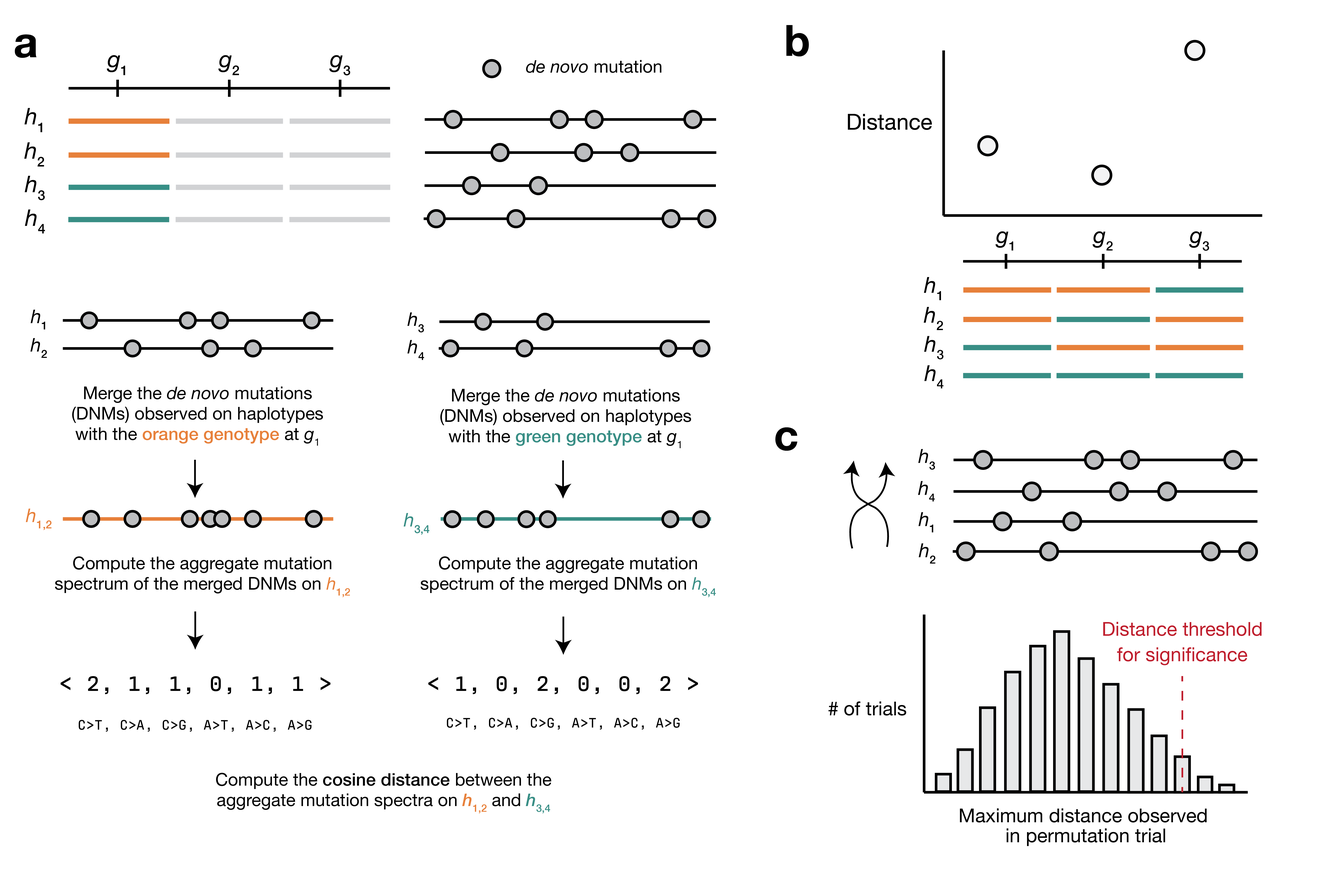
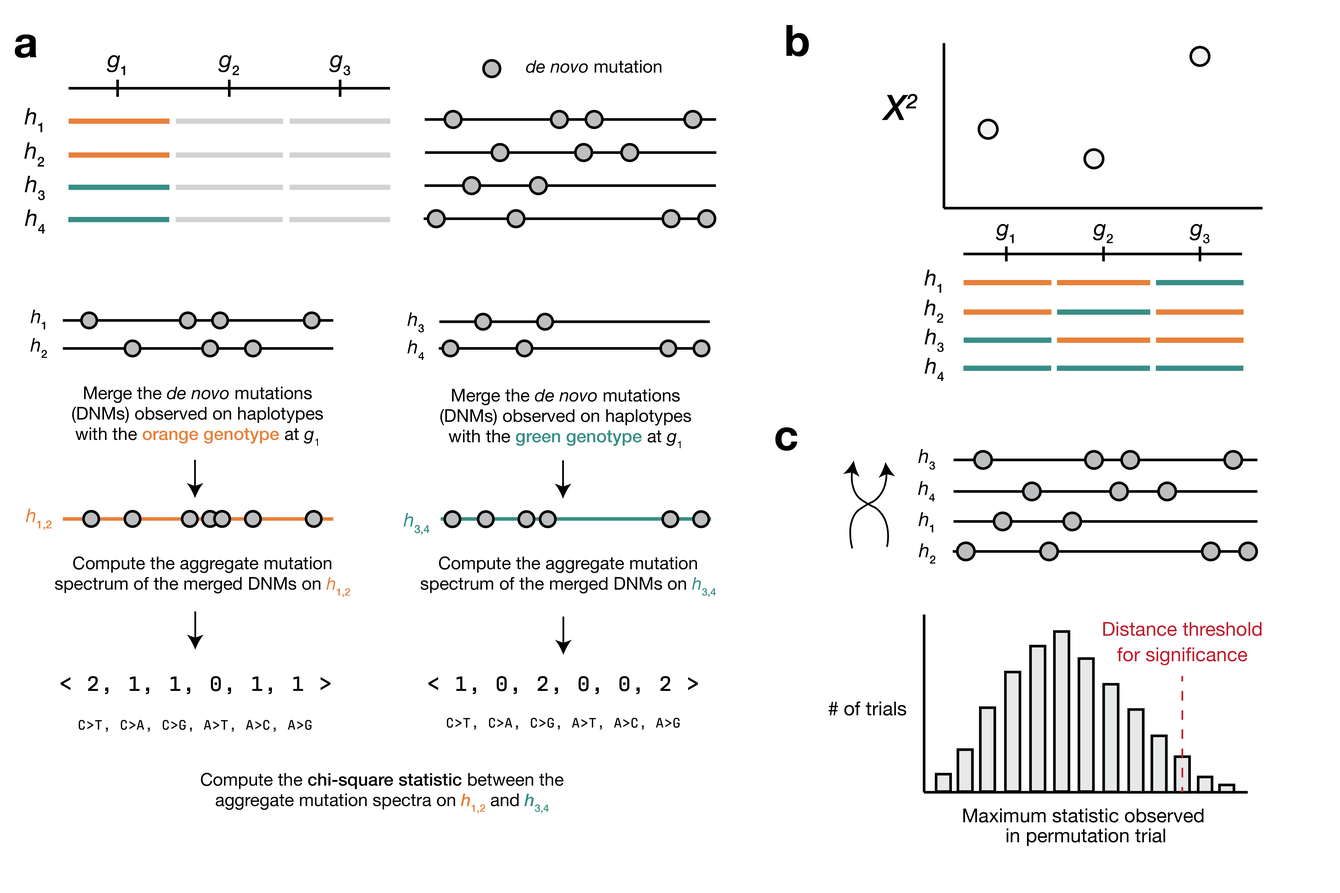
Update figures, reorganize sections, add supplement stub.

diff --git a/content/05.methods.md b/content/05.methods.md
@@ -22,27 +22,23 @@ Briefly, we identified private single-nucleotide mutations in each BXD that were
 
 Using the existing catalog of *de novo* germline mutations in the BXDs, we developed a new approach to discover loci that affect the germline *de novo* mutation spectrum in biparental RILs (Figure @fig:toy-diagram).
 
-![**Overview of inter-haplotype distance method for discovering mutator alleles.** **a)** A population of four haplotypes has been genotyped at three informative markers; each haplotype also harbors private *de novo* germline mutations. At each informative marker, we compute an aggregate *de novo* germline mutation spectrum in the haplotypes that carry either parental allele, and calculate the cosine distance between the two aggregate spectra. **b)** We repeat the process outlined in a) for every informative marker along the genome. **c)** To assess the significance of any cosine distance peaks in b), we perform a permutation test by shuffling the labels associated with each haplotype's mutation data and running a genome-wide distance scan. In each of $N$ permutations, we record the maximum distance encountered at any locus in the distance scan. Finally, we calculate the $1 - p$ percentile of that maximum distance distribution to obtain a genome-wide cosine distance threshold at the specified value of $p$.](images/Figure%201.png){#fig:toy-diagram width=7in} 
+![**Overview of inter-haplotype distance method for discovering mutator alleles.** **a)** A population of four haplotypes has been genotyped at three informative markers; each haplotype also harbors private *de novo* germline mutations. At each informative marker, we compute an aggregate *de novo* germline mutation spectrum in the haplotypes that carry either parental allele, and calculate the $\chi^{2}$ statistic between the two aggregate spectra. **b)** We repeat the process outlined in a) for every informative marker along the genome. **c)** To assess the significance of any $\chi^{2}$ statistic peaks in b), we perform a permutation test by shuffling the labels associated with each haplotype's mutation data and running a genome-wide distance scan. In each of $N$ permutations, we record the maximum distance encountered at any locus in the distance scan. Finally, we calculate the $1 - p$ percentile of that maximum distance distribution to obtain a genome-wide $\chi^{2}$ statistic threshold at the specified value of $p$.](images/Figure%201.png){#fig:toy-diagram width=7in} 
 
 We assume that a collection of haplotypes has been genotyped at informative markers, and that *de novo* germline mutations have been identified on each haplotype.
 
 At each informative marker, we divide haplotypes into two groups based on the parental allele that they inherited. We then compute a $k$-mer mutation spectrum using the aggregate mutation counts in each haplotype group. The $k$-mer mutation spectrum contains the frequency of every possible $k$-mer mutation type in a collection of mutations, and can be represented as a vector of size $6 \times 4^{k - 1}$ after collapsing by strand complement. For example, the $1$-mer mutation spectrum is 6-element vector that contains the frequencies of C>T, C>G, C>A, A>G, A>T, and A>C mutations.
 
-At each marker, we then calculate the cosine distance between the aggregate mutation spectra of haplotypes with either parental allele. The cosine distance between two vectors $\mathbf{A}$ and $\mathbf{B}$ is defined as 
+At each marker, we then calculate the $\chi^{2}$ statistic between the aggregate mutation spectra of haplotypes with either parental allele. Larger values of the $\chi^{2}$ statistic suggests more dissimilarity between the two aggregate mutation spectra.
 
-$$D_C = 1 - \frac{\mathbf{A} \cdot \mathbf{B}}{||\mathbf{A}|| \ ||\mathbf{B}||}$$
-
-where $||\mathbf{A}||$ and $||\mathbf{B}||$ are the $L^2$ (or Euclidean) norms of $\mathbf{A}$ and $\mathbf{B}$, respectively. The cosine distance metric has a number of favorable properties for comparing mutation spectra. Since cosine distance does not take the magnitude of vectors into account, it can be used to compare two spectra with unequal total mutation counts (even if those total counts are relatively small). Additionally, by calculating the cosine distance between mutation *spectra*, we avoid the need to perform separate comparisons of mutation counts at each individual $k$-mer mutation type. 
-
-Inspired by methods from QTL mapping [@PMID:7851788], we use permutation tests to establish genome-wide cosine distance thresholds. In each of $N$ permutation trials, we randomly shuffle the per-haplotype mutation data such that haplotype labels no longer correspond to the correct mutation counts. Using the shuffled mutation data, we perform a genome-wide distance scan as described above, and record the maximum distance observed at any locus. After $N$ permutations (usually 10,000), we compute the $1 - p$ percentile of the maximum distance distribution, and use that percentile value as a genome-wide significance threshold (for example, at $p = 0.05$).
+Inspired by methods from QTL mapping [@PMID:7851788], we use permutation tests to establish genome-wide $\chi^{2}$ statistic thresholds. In each of $N$ permutation trials, we randomly shuffle the per-haplotype mutation data such that haplotype labels no longer correspond to the correct mutation counts. Using the shuffled mutation data, we perform a genome-wide distance scan as described above, and record the maximum distance observed at any locus. After $N$ permutations (usually 10,000), we compute the $1 - p$ percentile of the maximum distance distribution, and use that percentile value as a genome-wide significance threshold (for example, at $p = 0.05$).
 
 #### Accounting for relatedness between strains 
 
 We expect each BXD RIL to derive approximately 50% of its genome from C57BL/6J and 50% from DBA/2J. As a result, every pair of RILs will likely be identical-by-descent (IBD) at a fraction of genotyped markers. Pairs of more genetically similar BXDs may also have more similar mutation spectra, potentially due to shared polygenic effects on the mutation process. Therefore, at a given marker, if the BXD RILs that inherited *D* haplotypes are genetically dissimilar from the RILs that inherited *B* haplotypes (considering all loci throughout the genome), we might expect the aggregate mutation spectra in the two groups to also be dissimilar. 
 
-We therefore implemented a simple approach to account for these potential issues of relatedness. At each marker $i$, we divide BXD haplotypes into two groups based on the parental allele they inherited. As before, we first compute the aggregate mutation spectrum in each group of haplotypes and calculate the cosine distance between the two aggregate spectra ($D^{C}_{i}$). Then, within each group of haplotypes, we calculate the allele frequency of the *D* allele at every marker along the genome to obtain a vector of length $n$, where $n$ is the number of genotyped markers. To quantify the genetic similarity between the two groups of haplotypes, we calculate the Pearson correlation coefficient $r_i$ between the two vectors of marker-wide *D* allele frequencies. 
+We therefore implemented a simple approach to account for these potential issues of relatedness. At each marker $i$, we divide BXD haplotypes into two groups based on the parental allele they inherited. As before, we first compute the aggregate mutation spectrum in each group of haplotypes and calculate the $\chi^{2}$ statistic between the two aggregate spectra ($\chi^{2}_{i}$). Then, within each group of haplotypes, we calculate the allele frequency of the *D* allele at every marker along the genome to obtain a vector of length $n$, where $n$ is the number of genotyped markers. To quantify the genetic similarity between the two groups of haplotypes, we calculate the Pearson correlation coefficient $r_i$ between the two vectors of marker-wide *D* allele frequencies. 
 
-Thus, at every marker $i$ along the genome, we divide BXD haplotypes into two groups and compute two metrics: $D^{C}_{i}$ (the cosine distance between the aggregate spectra of each group) and $r_i$ (the correlation between genome-wide *D* allele frequencies in each group). To control for the potential effects of genetic similarity on cosine distances, we regress $\left(D^{C}_{1}, D^{C}_{2}, \ldots D^{C}_{n} \right)$ against $\left( r_1, r_2, \ldots r_n \right)$ for all $n$ markers and fit an ordinary least-squares regression model. We then use the residuals from the fitted model as the "adjusted" cosine distance values for each marker. If genome-wide genetic similarity between haplotypes perfectly predicts cosine distances at each marker, these residuals will all be 0 (or very close to 0). If genome-wide genetic similarity has no predictive power, the residuals will simply represent the difference between an observed cosine distance and the marker-wide mean of cosine distances.
+Thus, at every marker $i$ along the genome, we divide BXD haplotypes into two groups and compute two metrics: $\chi^{2}_{i}$ (the $\chi^2$ statistic between the two groups' aggregate spectra) and $r_i$ (the correlation between genome-wide *D* allele frequencies in the two groups). To control for the potential effects of genetic similarity on $\chi^{2}$ statistics, we regress $\left(\chi^2_{1}, \chi^2_{2}, \ldots \chi^2_{n} \right)$ on $\left( r_1, r_2, \ldots r_n \right)$ for all $n$ markers and fit an ordinary least-squares regression model. We then use the residuals from the fitted model as the "adjusted" $\chi^{2}$ statistic values for each marker. If genome-wide genetic similarity between haplotypes perfectly predicts $\chi^{2}$ statistics at each marker, these residuals will all be 0 (or very close to 0). If genome-wide genetic similarity has no predictive power, the residuals will simply represent the difference between an observed $\chi^{2}$ statistic and the marker-wide mean of $\chi^{2}$ statistics.
 
 #### Implementation and source code
 
@@ -78,7 +74,7 @@ $$C^{\prime}_{i, j} = \mathrm {Pois}(\lambda^{\prime}_{j})$$
 
 When $k = 1$, we only augment the effect size of one mutation type at a time, but when $k = 3$, we augment a fraction (25%, 50%, or 100%) of the $3$-mer mutation types associated with a single "central" mutation type. 
 
-After generating mutator and wild-type haplotypes, we compute the aggregate mutation spectrum in either group by summing the columns of $C$ and $C^{\prime}$. We then calculate the cosine distance between the two aggregate spectra, which we call the "focal" distance $D_f$. To determine whether $D_f$ is greater than what we'd expect by chance, we perform a permutation test.
+After generating mutator and wild-type haplotypes, we compute the aggregate mutation spectrum in either group by summing the columns of $C$ and $C^{\prime}$. We then calculate the $\chi^{2}$ statistic between the two aggregate spectra, which we call the "focal" distance $D_f$. To determine whether $D_f$ is greater than what we'd expect by chance, we perform a permutation test.
 
 First, we concatenate the matrices of wild-type and mutator haplotype spectra:
 
@@ -87,7 +83,7 @@ C \\
 C^{\prime}
 \end{bmatrix}$$
 
-Then, in each of $N = 1,000$ trials, we randomly permute the rows of $A$. In every permutation, we consider the row indices from $\left[0, \frac{h}{2} \right)$ to correspond to the wild-type haplotypes, and the row indices from $\left[ \frac{h}{2}, h \right)$ to correspond to the mutator haplotypes. We then compute the cosine distance between the aggregate spectra of the wild-type and mutator haplotypes. If fewer than 5% of the $N$ permutations produces a cosine distance greater than or equal to $D_f$, we say that the approach successfully identified the mutator allele. For every combination of simulation parameters ($h$, $m$, $e$, and so on) we perform 100 trials and record the number of trials in which we successfully identify the mutator allele. 
+Then, in each of $N = 1,000$ trials, we randomly permute the rows of $A$. In every permutation, we consider the row indices from $\left[0, \frac{h}{2} \right)$ to correspond to the wild-type haplotypes, and the row indices from $\left[ \frac{h}{2}, h \right)$ to correspond to the mutator haplotypes. We then compute the $\chi^{2}$ statistic between the aggregate spectra of the wild-type and mutator haplotypes. If fewer than 5% of the $N$ permutations produces a $\chi^{2}$ statistic greater than or equal to $D_f$, we say that the approach successfully identified the mutator allele. For every combination of simulation parameters ($h$, $m$, $e$, and so on) we perform 100 trials and record the number of trials in which we successfully identify the mutator allele. 
 
 ### Applying the inter-haplotype distance method to the BXDs
 
@@ -99,7 +95,7 @@ We used Snakemake [@PMID:34035898] to write a reproducible workflow for running 
 
 ### Identifying candidate mutator alleles overlapping the chromosome 6 peak
 
-We investigated the region implicated by our inter-haplotype distance approach on chromosome 6 by subsetting the joint-genotyped BXD VCF file (European Nucleotide Archive accession **PRJEB45429** [@url:https://www.ebi.ac.uk/ena/browser/view/PRJEB45429]) using `bcftools` [@PMID:33590861]. We defined the candidate interval surrounding the cosine distance peak on chromosome 6 as +/- 5 Mbp from the genotype marker with the largest cosine distance value (`rs31001331`). To predict the functional impacts of both single-nucleotide variants and indels on splicing, protein structure, etc., we annotated variants in the BXD VCF using the following `snpEff` [@PMID:22728672] command: 
+We investigated the region implicated by our inter-haplotype distance approach on chromosome 6 by subsetting the joint-genotyped BXD VCF file (European Nucleotide Archive accession **PRJEB45429** [@url:https://www.ebi.ac.uk/ena/browser/view/PRJEB45429]) using `bcftools` [@PMID:33590861]. We defined the candidate interval surrounding the $\chi^{2}$ statistic peak on chromosome 6 as +/- 5 Mbp from the genotype marker with the largest $\chi^{2}$ statistic value (`rs31001331`). To predict the functional impacts of both single-nucleotide variants and indels on splicing, protein structure, etc., we annotated variants in the BXD VCF using the following `snpEff` [@PMID:22728672] command: 
 
 ```
  java -Xmx16g -jar /path/to/snpeff/jarfile GRCm38.75 /path/to/bxd/vcf > /path/to/uncompressed/output/vcf
@@ -113,7 +109,7 @@ We downloaded mutation data from a previously published analysis [@PMID:30753674
 
 ### Querying GeneNetwork for evidence of eQTLs at the mutator locus
 
-We used the online GeneNetwork resource [@PMID:27933521], which contains array- and RNA-seq-derived expression measurements in a wide variety of tissues from numerous datasets, to find *cis*-eQTLs for the DNA repair genes we implicated under the cosine distance peak on chromosome 6. On the GeneNetwork homepage (genenetwork.org), we selected the "BXD Family" **Group** and used the **Type** dropdown menu to select each of the specific expression datasets described in Table @tbl:eqtl-provenance. In the **Get Any** text box, we then entered the gene name (*Ogg1*) and clicked **Search**. After selecting the appropriate trait ID on the next page, we used the **Mapping Tools** dropdown to run Haley-Knott regression [@PMID:16718932] with the following parameters: WGS-based marker genotypes, 1,000 permutations for LOD threshold calculations, and controlling for BXD genotypes at the `rs32497085` marker.
+We used the online GeneNetwork resource [@PMID:27933521], which contains array- and RNA-seq-derived expression measurements in a wide variety of tissues from numerous datasets, to find *cis*-eQTLs for the DNA repair genes we implicated under the $\chi^{2}$ statistic peak on chromosome 6. On the GeneNetwork homepage (genenetwork.org), we selected the "BXD Family" **Group** and used the **Type** dropdown menu to select each of the specific expression datasets described in Table @tbl:eqtl-provenance. In the **Get Any** text box, we then entered the gene name (*Ogg1*) and clicked **Search**. After selecting the appropriate trait ID on the next page, we used the **Mapping Tools** dropdown to run Haley-Knott regression [@PMID:16718932] with the following parameters: WGS-based marker genotypes, 1,000 permutations for LOD threshold calculations, and controlling for BXD genotypes at the `rs32497085` marker.
 
 The exact names of the expression datasets we used for each tissue are shown in Table @tbl:eqtl-provenance below:
 
@@ -146,7 +142,7 @@ To test for the presence of epistasis between the mutator loci near *Mutyh* and 
 m1 <- glm(Count ~ offset(log(ADJ_AGE)) + Genotype_A * Genotype_B, data = data, family=poisson())
 ```
 
-In this model, `Count` is the count of C>A *de novo* mutations observed in each BXD RIL. `ADJ_AGE` is the product of the number of "callable" cytosine nucleotides in each RIL (i.e., the total number of cytosines covered by at least 10 sequencing reads in the RIL) and the number of generations for which the RIL was inbred. We included the logarithm of `ADJ_AGE` as an "offset" in order to model the response variable as a rate rather than an absolute count; the BXDs differ in both their durations of inbreeding and the proportions of their genomes that were sequenced to sufficient depth, which influences the number of mutations we observe in each RIL. The `Genotype_A` and `Genotype_B` terms represent the genotypes of BXDs at markers `rs52263933` and `rs31001331` (the markers with peak cosine distance near *Mutyh* and *Ogg1* in the two inter-haplotype distance scans). Since each BXD is inbred for at least 20 generations, we considered genotypes at either locus to be binary ("B" or "D"). Using analysis of variance (ANOVA), we then compared the model including an interaction effect to a model including only additive effects:
+In this model, `Count` is the count of C>A *de novo* mutations observed in each BXD RIL. `ADJ_AGE` is the product of the number of "callable" cytosine nucleotides in each RIL (i.e., the total number of cytosines covered by at least 10 sequencing reads in the RIL) and the number of generations for which the RIL was inbred. We included the logarithm of `ADJ_AGE` as an "offset" in order to model the response variable as a rate rather than an absolute count; the BXDs differ in both their durations of inbreeding and the proportions of their genomes that were sequenced to sufficient depth, which influences the number of mutations we observe in each RIL. The `Genotype_A` and `Genotype_B` terms represent the genotypes of BXDs at markers `rs52263933` and `rs31001331` (the markers with peak $\chi^{2}$ statistic near *Mutyh* and *Ogg1* in the two inter-haplotype distance scans). Since each BXD is inbred for at least 20 generations, we considered genotypes at either locus to be binary ("B" or "D"). Using analysis of variance (ANOVA), we then compared the model including an interaction effect to a model including only additive effects:
 
 ```R
 m2 <- glm(Count ~ offset(log(ADJ_AGE)) + Haplotype_A + Haplotype_B, data = data, family=poisson())

diff --git a/content/03.results.md b/content/03.results.md
@@ -2,25 +2,25 @@
 
 ### Benchmarking the inter-haplotype distance method using simulations
 
-We first tested the inter-haplotype cosine distance approach using simulated data (Materials and Methods). We find that the method's power is mostly limited by the initial mutation rate of the $k$-mer mutation type affected by the mutator allele and the total number of *de novo* germline mutations in the dataset (that is, the product of the number of haplotypes and the mean number of mutations per haplotype) (Figure {@fig:simulations}). For example, given 50 haplotypes with an average of 500 *de novo* germline mutations each, our method has nearly 90% power detect a mutator allele that increases the C>T *de novo* mutation rate by 10%. However, the method only has about 10% power to detect a mutator of identical effect size that affects the C>G mutation rate, since C>G mutations are expected to make up a much smaller fraction of all *de novo* germline mutations to begin with. These simulations also demonstrate that our method is well-powered to detect large-effect mutator alleles (e.g., those that increase the mutation rate of a specific $k$-mer by 50%), even with a relatively small number of mutations per haplotype.
+We first tested the inter-haplotype distance approach using simulated data (Materials and Methods). We find that the method's power is mostly limited by the initial mutation rate of the $k$-mer mutation type affected by the mutator allele and the total number of *de novo* germline mutations in the dataset (that is, the product of the number of haplotypes and the mean number of mutations per haplotype) (Figure {@fig:simulations}). For example, given 50 haplotypes with an average of 500 *de novo* germline mutations each, our method has nearly 90% power detect a mutator allele that increases the C>T *de novo* mutation rate by 10%. However, the method only has about 10% power to detect a mutator of identical effect size that affects the C>G mutation rate, since C>G mutations are expected to make up a much smaller fraction of all *de novo* germline mutations to begin with. These simulations also demonstrate that our method is well-powered to detect large-effect mutator alleles (e.g., those that increase the mutation rate of a specific $k$-mer by 50%), even with a relatively small number of mutations per haplotype.
 
 ![**Simulations to assess the power of the inter-haplotype distance method.** We simulated *de novo* germline mutations on the specified number of haplotypes, such that 50% of haplotypes were affected by a mutator allele that increased the mutation rate of the specified $k$-mer by the specified effect size (an effect size of 1.5 indicates a 50% increase in the mutation rate). The colors of the lines indicate the number of simulated mutations on each haplotype (before augmenting the mutation rate with a mutator allele). Given a specific combination of parameters, the y-axis denotes the fraction of 100 simulations in which the simulated mutator allele could be detected at a p-value of 0.05. Shaded areas indicate the standard deviation of that fraction.](images/sims.png){#fig:simulations width=7in} 
 
 ### Re-identifying the mutator allele on chromosome 4 in the BXDs
 
-We applied our inter-haplotype distance method to 93 BXD RILs (Materials and Methods) with a total of 62,993 *de novo* germline mutations [@PMID:35545679]. Reassuringly, we observed a large peak in cosine distance at a locus on chromosome 4 (Figure {@fig:distance-results}A; maximum distance of 9.20e-3 at marker ID `rs52263933`; position 116.75 Mbp in GRCm38/mm10 coordinates). 
+We applied our inter-haplotype distance method to 93 BXD RILs (Materials and Methods) with a total of 62,993 *de novo* germline mutations [@PMID:35545679]. Reassuringly, using $1$-mer mutation spectra, we observed a large $\chi^{2}$ statistic peak at a locus on chromosome 4 (Figure {@fig:distance-results}A; maximum $\chi^2$ statistic of 352.7 at marker ID `rs52263933`; position 116.75 Mbp in GRCm38/mm10 coordinates). We observed the same peak on chromosome 4 using the $3-mer$ mutation spectrum, as well (Figure @fig:distance-3mer).
 
-![**Results of inter-haplotype distance scans in the BXD RILs.** **a)** Cosine distances between aggregate *de novo* mutation spectra on BXD haplotypes (n = 93 haplotypes; 62,993 total mutations) with either *D* or *B* alleles at 7,320 informative markers. Distance threshold at $p = 0.05$ was calculated by performing 10,000 permutations of the BXD haplotype mutation data, and is shown as a dotted grey line. **b)** Cosine distances between aggregate *de novo* mutation spectra on BXD haplotypes with *D* alleles at `rs52263933` (n = 55 haplotypes; 40,913 total mutations) and either *D* or *B* alleles at 7,320 informative markers. Distance threshold at $p = 0.05$ was calculated by performing 10,000 permutations of the BXD haplotype mutation data, and is shown as a dotted grey line. **c)** Fractions of *de novo* germline mutations in BXDs with either *D* or *B* haplotypes at markers `rs52263933` and `rs31001331`, stratified by mutation type. **d)** Fractions of *de novo* germline mutations in Sanger Mouse Genome Project (MGP) strains with either *D* or *B* haplotypes at markers `rs52263933` and `rs31001331`, stratified by mutation type.](images/Figure%202.png){#fig:distance-results width=7in} 
+![**Results of inter-haplotype distance scans in the BXD RILs.** **a)** $\chi^{2}$ statistics between aggregate $1$-mer *de novo* mutation spectra on BXD haplotypes (n = 93 haplotypes; 62,993 total mutations) with either *D* or *B* alleles at 7,320 informative markers. Distance threshold at $p = 0.05$ was calculated by performing 10,000 permutations of the BXD haplotype mutation data, and is shown as a dotted grey line. **b)** $\chi^{2}$ statistics between aggregate $1-mer$ *de novo* mutation spectra on BXD haplotypes with *D* alleles at `rs52263933` (n = 55 haplotypes; 40,913 total mutations) and either *D* or *B* alleles at 7,320 informative markers. Distance threshold at $p = 0.05$ was calculated by performing 10,000 permutations of the BXD haplotype mutation data, and is shown as a dotted grey line. **c)** Fractions of *de novo* germline mutations in BXDs with either *D* or *B* haplotypes at markers `rs52263933` and `rs31001331`, stratified by mutation type. **d)** Fractions of *de novo* germline mutations in Sanger Mouse Genome Project (MGP) strains with either *D* or *B* haplotypes at markers `rs52263933` and `rs31001331`, stratified by mutation type.](images/Figure%202.png){#fig:distance-results width=7in} 
 
 In a previous analysis, we used quantitative trait locus (QTL) mapping to identify a nearly identical locus on chromosome 4 that was significantly associated with the C>A germline mutation rate in the BXDs [@PMID:35545679]. This locus overlaps 21 protein-coding genes that are annotated by the Gene Ontology as being involved in "DNA repair," but only one of these genes contains non-synonymous differences between the two parental strains: *Mutyh*. *Mutyh* encodes a protein involved in the base-excision repair of 8-oxoguanine (8-oxoG), a DNA lesion caused by oxidative damage, and prevents the accumulation of C>A mutations [@PMID:28551381;@PMID:28127763;@PMID:17581577]. C>A germline mutation rates are nearly 50% higher in BXDs that inherited *D* haplotypes at marker ID `rs52263933` than in those that inherited *B* haplotypes [@PMID:35545679].
 
 ### An additional germline mutator allele on chromosome 6
 
-After confirming that the inter-haplotype distance method could recover the mutator locus overlapping *Mutyh*, we asked if our approach could identify additional mutator loci in the BXD. To account for the effects of the large-effect C>A germline mutator locus near *Mutyh*, we divided the BXD RILs into those with either *D* (n = 55) or *B* (n = 38) genotypes at `rs52263933` (the marker at which we observed the highest inter-haplotype cosine distance on chromosome 4), and ran a genome-wide distance scan using each group separately (Figure {@fig:distance-results}B.
+After confirming that the inter-haplotype distance method could recover the mutator locus overlapping *Mutyh*, we asked if our approach could identify additional mutator loci in the BXD. To account for the effects of the large-effect C>A germline mutator locus near *Mutyh*, we divided the BXD RILs into those with either *D* (n = 55) or *B* (n = 38) genotypes at `rs52263933` (the marker at which we observed the highest inter-haplotype $\chi^{2}$ statistic on chromosome 4), and ran a genome-wide distance scan using each group separately (Figure {@fig:distance-results}B.
 
-Using only the BXDs with *B* genotypes at the *Mutyh* mutator locus, we did not observe any genome-wide significant peaks. But using the BXDs with *D* genotypes at the same locus, we identified a cosine distance peak on chromosome 6 (Figure {@fig:distance-results}B; maximum distance of 3.03e-3 at marker `rs31001331`; position 114.05 Mbp in GRCm38/mm10 coordinates). We queried the region underneath this peak (+/- 5 Mbp) and discovered 87 protein-coding genes. Remarkably, only one was both annotated with the Gene Ontology term "DNA repair" and contained nonsynonymous differences between C57BL/6J and DBA/2J: *Ogg1*. *Ogg1* encodes a key member of the base-excision repair response to oxidative DNA damage, a pathway that also includes *Mutyh*. *Ogg1* harbors a single fixed nonsynonymous differences between the C57BL/6J and DBA/2J parental strains: p.Thr95Ala, at position 113,328,510 on chromosome 6 in GRCm38/mm10 coordinates. 
+Using only the BXDs with *B* genotypes at the *Mutyh* mutator locus, we did not observe any genome-wide significant peaks. But using the BXDs with *D* genotypes at the same locus, we identified a $\chi^{2}$ statistic peak on chromosome 6 (Figure {@fig:distance-results}B; maximum $\chi^2$ statistic of 81.0 at marker `rs31001331`; position 114.05 Mbp in GRCm38/mm10 coordinates). We identified the same peak using the $3-mer$ mutation spectra, as well (Figure @fig:distance-3mer). We queried the region underneath this peak (+/- 5 Mbp) and discovered 87 protein-coding genes. Remarkably, only one was both annotated with the Gene Ontology term "DNA repair" and contained nonsynonymous differences between C57BL/6J and DBA/2J: *Ogg1*. *Ogg1* encodes a key member of the base-excision repair response to oxidative DNA damage, a pathway that also includes *Mutyh*. *Ogg1* harbors a single fixed nonsynonymous differences between the C57BL/6J and DBA/2J parental strains: p.Thr95Ala, at position 113,328,510 on chromosome 6 in GRCm38/mm10 coordinates. 
 
-We also considered the possibility that expression quantitative trait loci (eQTLs), rather than nonsynonymous mutations, could contribute to the C>A mutator phenotype associated to the locus on chromosome 6. Using GeneNetwork [@PMID:27933521], we mapped cis-eQTLs for *Ogg1* in a number of tissues, including hematopoetic stem cells, kidney, and spleen. BXD genotypes near the cosine distance peak on chromosome 6 were significantly associated with *Ogg1* expression in some (but not all) tissues, and *D* genotypes were nearly always associated with decreased gene expression (Table @tbl:eqtl-results). We also queried a previously published collection of eQTLs derived from Diversity Outbred (DO) mouse embryonic stem cell (mESC) expression data [@PMID:32795400], but did not find any significant eQTLs for *Ogg1*. 
+We also considered the possibility that expression quantitative trait loci (eQTLs), rather than nonsynonymous mutations, could contribute to the C>A mutator phenotype associated to the locus on chromosome 6. Using GeneNetwork [@PMID:27933521], we mapped cis-eQTLs for *Ogg1* in a number of tissues, including hematopoetic stem cells, kidney, and spleen. BXD genotypes near the $\chi^{2}$ statistic peak on chromosome 6 were significantly associated with *Ogg1* expression in some (but not all) tissues, and *D* genotypes were nearly always associated with decreased gene expression (Table @tbl:eqtl-results). We also queried a previously published collection of eQTLs derived from Diversity Outbred (DO) mouse embryonic stem cell (mESC) expression data [@PMID:32795400], but did not find any significant eQTLs for *Ogg1*. 
 
 | Tissue name | # BXDs with expression data |  Top significant marker | LRS at top significant marker | Significant LRS threshold | Additive effect of D allele on expression |
 | - | - | - | - | - | - |

diff --git a/content/06.supplement.md b/content/06.supplement.md
@@ -1,0 +1,15 @@
+## Supplementary information
+
+### Using cosine distance instead of $\chi^2$ statistics for comparing mutation spectra
+
+We also explored the use of cosine distance as an alternative to the $\chi^{2}$ statistic for comparing mutation spectra. The cosine distance between two vectors $\mathbf{A}$ and $\mathbf{B}$ is defined as 
+
+$$D_C = 1 - \frac{\mathbf{A} \cdot \mathbf{B}}{||\mathbf{A}|| \ ||\mathbf{B}||}$$
+
+where $||\mathbf{A}||$ and $||\mathbf{B}||$ are the $L^2$ (or Euclidean) norms of $\mathbf{A}$ and $\mathbf{B}$, respectively. The cosine distance metric has a number of favorable properties for comparing mutation spectra. Since cosine distance does not take the magnitude of vectors into account, it can be used to compare two spectra with unequal total mutation counts (even if those total counts are relatively small). Additionally, by calculating the cosine distance between mutation *spectra*, we avoid the need to perform separate comparisons of mutation counts at each individual $k$-mer mutation type. 
+
+In practice, we found that the $\chi^2$ statistic was more sensitive for detecting loci associated with differences in mutation spectra. However, we provide the ability to use cosine distance in our method, as well, since the $\chi^2$ statistic may not behave as expected in certain situations (e.g., if the counts of mutations in each $k$-mer type are small).
+
+### Using $3$-mer mutation spectra to perform the inter-haplotype distance scans
+
+![**Results of inter-haplotype distance scans in the BXD RILs using $3$-mer mutation spectra.** **a)** $\chi^{2}$ statistics between aggregate $3$-mer *de novo* mutation spectra on BXD haplotypes (n = 93 haplotypes; 62,993 total mutations) with either *D* or *B* alleles at 7,320 informative markers. Distance threshold at $p = 0.05$ was calculated by performing 10,000 permutations of the BXD haplotype mutation data, and is shown as a dotted grey line. **b)** $\chi^{2}$ statistics between aggregate $3-mer$ *de novo* mutation spectra on BXD haplotypes with *D* alleles at `rs52263933` (n = 55 haplotypes; 40,913 total mutations) and either *D* or *B* alleles at 7,320 informative markers. Distance threshold at $p = 0.05$ was calculated by performing 10,000 permutations of the BXD haplotype mutation data, and is shown as a dotted grey line.](images/Figure%20S2.png){#fig:distance-3mer width=7in} 
